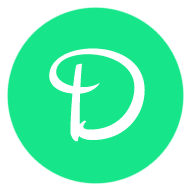
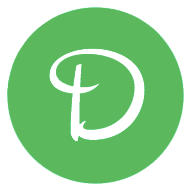
pre-loader + selection

diff --git a/assets/css/style.css b/assets/css/style.css
@@ -95,13 +95,13 @@ a:hover {
 ::-moz-selection {
     color: #fff;
     text-shadow: none;
-    background: #16E689
+    background: #5cb85c
 }
 
 ::selection {
     color: #fff;
     text-shadow: none;
-    background: #16E689
+    background: #5cb85c
 }
 
 .lead {
@@ -3231,7 +3231,7 @@ figure.effect-milo:hover .image {
     top: -3px;
     height: 100%;
     width: 100%;
-    border-top: 3px solid rgba(22, 230, 137, 1);
+    border-top: 3px solid #5cb85c;
     border-left: 3px solid transparent;
     border-bottom: 3px solid transparent;
     border-right: 3px solid transparent;
